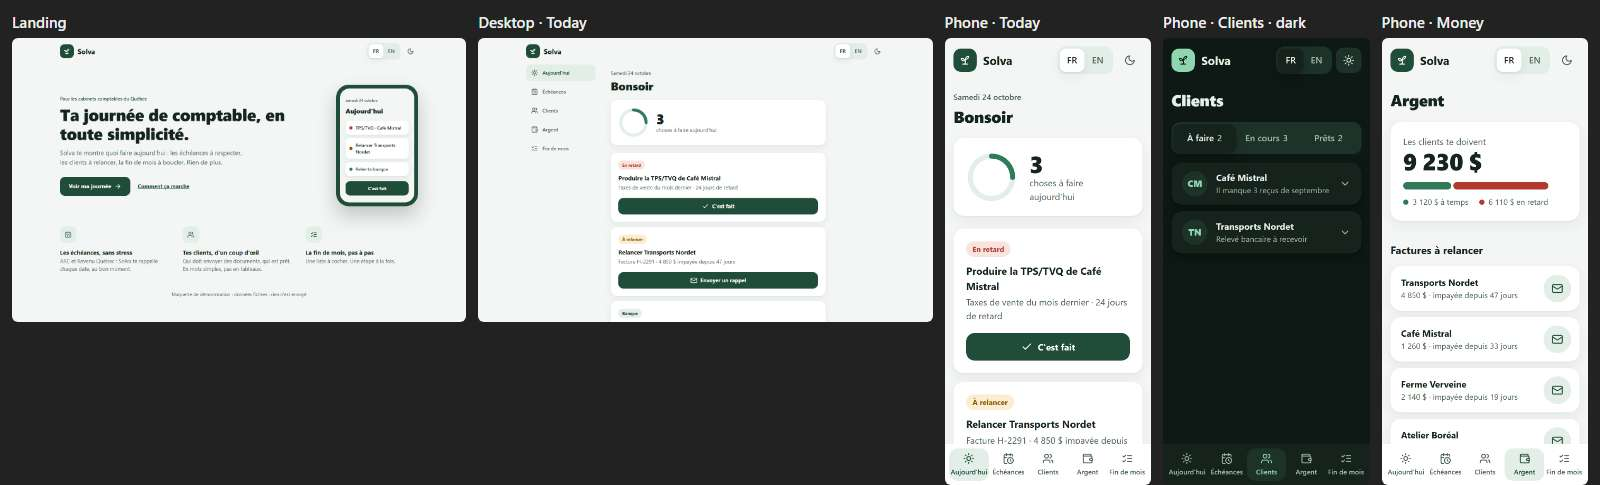
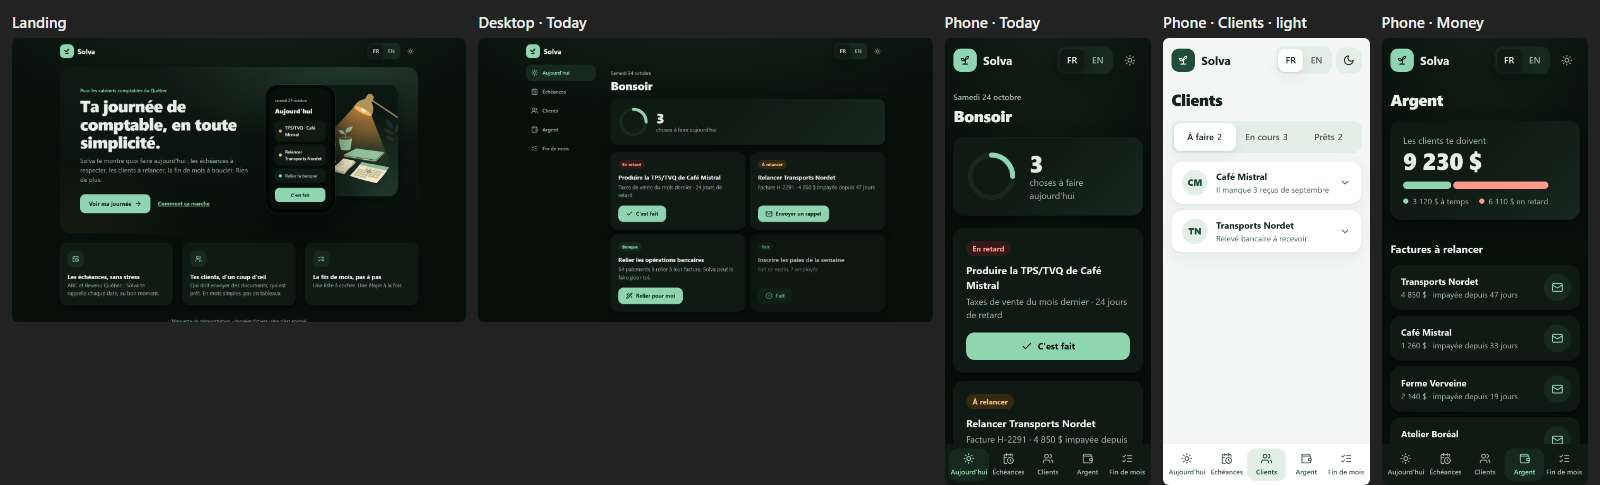
Darker look: dark by default, Gemini hero art, crew polish
- Deeper dark palette, top glow, glowing phone mock; dark is the default (storage key solva-v2)
- Landing hero panel with day/night desk illustrations (Gemini), benefit cards
- Desktop Today: wider column, two-column tasks, compact task buttons
- shots.py: dark default, light as the toggled view

diff --git a/style.css b/style.css
@@ -1,4 +1,4 @@
-/* Solva: phone-first, airy, one accent (dark green). Tokens follow webd. */
+/* Solva: phone-first, calm, one accent (green). Dark by default. Tokens follow webd. */
 :root {
   --bg: #f3f6f4;
   --surface: #ffffff;
@@ -14,26 +14,29 @@
   --red-tint: #f8e3df;
   --amber: #8a5800;
   --amber-tint: #fbedd2;
-  --shadow: 0 1px 2px rgba(21, 36, 29, .06), 0 8px 24px rgba(21, 36, 29, .06);
+  --shadow: 0 0 0 1px rgba(21, 36, 29, .05), 0 1px 2px rgba(21, 36, 29, .05), 0 10px 28px rgba(21, 36, 29, .06);
+  --hero: radial-gradient(120% 90% at 85% 10%, #d3e8dc 0%, rgba(211, 232, 220, 0) 60%), linear-gradient(180deg, #e9f2ed, #f3f6f4);
   --r: 20px;
   color-scheme: light;
 }
 [data-theme="dark"] {
-  --bg: #0e1814;
-  --surface: #15231c;
+  --bg: #08100c;
+  --surface: #101a15;
   --ink: #e5efe9;
-  --muted: #a3b8ad;
-  --line: #24382e;
+  --muted: #9bb1a5;
+  --line: #1c2b24;
   --accent: #8fd6b0;
   --accent-ink: #8fd6b0;
-  --on-accent: #0e1814;
-  --tint: #1d3329;
+  --on-accent: #08100c;
+  --tint: #172820;
   --ring: #8fd6b0;
   --red: #ff9a8a;
-  --red-tint: #3a1f1b;
+  --red-tint: #33191a;
   --amber: #f3c46e;
-  --amber-tint: #3a2e17;
-  --shadow: 0 1px 2px rgba(0, 0, 0, .3), 0 8px 24px rgba(0, 0, 0, .25);
+  --amber-tint: #332914;
+  --shadow: 0 0 0 1px rgba(143, 214, 176, .07), 0 1px 2px rgba(0, 0, 0, .4), 0 12px 32px rgba(0, 0, 0, .35);
+  --hero: radial-gradient(90% 80% at 80% 0%, rgba(143, 214, 176, .16) 0%, rgba(143, 214, 176, 0) 60%), radial-gradient(60% 60% at 0% 100%, rgba(243, 196, 110, .06), rgba(243, 196, 110, 0) 70%), linear-gradient(180deg, #0f1a15, #08100c);
+  --glow: radial-gradient(70% 40% at 50% -10%, rgba(143, 214, 176, .09), rgba(143, 214, 176, 0));
   color-scheme: dark;
 }
 
@@ -41,11 +44,11 @@
 .booting .app { visibility: hidden; }
 html { scroll-behavior: smooth; -webkit-text-size-adjust: 100%; }
 html, body { margin: 0; }
-body { background: var(--bg); color: var(--ink); font: 17px/1.5 Figtree, system-ui, sans-serif; transition: background .4s, color .4s; }
+body { background: var(--glow, none) no-repeat, var(--bg); color: var(--ink); font: 17px/1.5 Figtree, system-ui, sans-serif; transition: background .4s, color .4s; }
 button { font: inherit; color: inherit; border: 0; background: none; cursor: pointer; }
 a { color: inherit; }
 h1, h2, p { margin: 0; }
-h1 { font-size: 30px; line-height: 1.15; font-weight: 800; letter-spacing: -.01em; }
+h1 { font-size: 30px; line-height: 1.1; font-weight: 800; letter-spacing: -.02em; }
 h2 { font-size: 20px; font-weight: 700; margin: 40px 0 16px; }
 ul { list-style: none; margin: 0; padding: 0; }
 .num { font-variant-numeric: tabular-nums; }
@@ -110,7 +113,7 @@ svg.lucide { width: 22px; height: 22px; stroke-width: 2; flex: none; }
 .dot { display: inline-block; width: 10px; height: 10px; border-radius: 50%; background: var(--ring); flex: none; }
 .dot.red { background: var(--red); } .dot.amber { background: var(--amber); }
 
-.answer { display: flex; align-items: center; gap: 24px; margin-top: 24px; }
+.answer { display: flex; align-items: center; gap: 24px; margin-top: 24px; background: linear-gradient(135deg, var(--surface) 40%, var(--tint)); }
 .answer .grow { flex: 1; }
 .huge { display: block; font-size: 44px; line-height: 1.1; font-weight: 800; letter-spacing: -.02em; }
 .answer p { color: var(--muted); }
@@ -132,7 +135,9 @@ svg.lucide { width: 22px; height: 22px; stroke-width: 2; flex: none; }
 
 /* today */
 .tasks { display: grid; gap: 16px; margin-top: 24px; }
-.task p { color: var(--muted); margin: 4px 0 20px; }
+.task { display: flex; flex-direction: column; }
+.task .pill { align-self: flex-start; }
+.task p { flex: 1; color: var(--muted); margin: 4px 0 20px; }
 .task b { display: block; font-size: 19px; }
 .task .pill { margin-bottom: 12px; }
 .task.done { opacity: .65; }
@@ -180,25 +185,32 @@ svg.lucide { width: 22px; height: 22px; stroke-width: 2; flex: none; }
 .check[aria-checked="true"] > span:nth-child(2) { color: var(--muted); text-decoration: line-through; }
 
 /* ---------- landing ---------- */
-.landing { padding-top: 24px; }
+.landing { padding-top: 8px; }
+.land-hero { padding: 32px 24px; border-radius: 32px; background: var(--hero); }
 .landing .kicker { color: var(--accent-ink); }
 .land-hero h1 { font-size: 40px; }
 .land-hero .lead { font-size: 20px; margin-top: 16px; max-width: 30em; }
 .cta { display: flex; flex-wrap: wrap; align-items: center; gap: 16px 24px; margin-top: 32px; }
 .link { font-weight: 700; color: var(--accent-ink); min-height: 48px; display: inline-flex; align-items: center; }
-.phone { margin: 48px auto 0; width: 260px; max-width: 100%; padding: 12px; border-radius: 40px; background: #1f4d3a; box-shadow: 0 30px 60px rgba(21, 36, 29, .22); }
+.land-visual { display: grid; margin: 40px auto 0; max-width: 420px; padding-bottom: 8px; }
+.land-visual .phone { grid-area: 1 / 1; width: 220px; justify-self: start; align-self: end; margin: 0; }
+.land-art { grid-area: 1 / 1; justify-self: end; width: 84%; aspect-ratio: 1; height: auto; object-fit: cover; border-radius: 28px; box-shadow: var(--shadow); }
+.land-art.night, [data-theme="dark"] .land-art.day { display: none; }
+[data-theme="dark"] .land-art.night { display: block; }
+[data-theme="dark"] .phone { background: #030806; box-shadow: 0 0 0 1px rgba(143, 214, 176, .18), 0 30px 70px rgba(0, 0, 0, .6), 0 0 80px rgba(143, 214, 176, .08); }
+.phone { position: relative; margin: 0 auto; width: 260px; max-width: 100%; padding: 12px; border-radius: 40px; background: #1f4d3a; box-shadow: 0 30px 60px rgba(21, 36, 29, .22); }
 .phone-screen { border-radius: 30px; background: var(--bg); padding: 28px 18px 22px; display: grid; gap: 10px; font-size: 14px; }
 .ph-date { color: var(--muted); font-size: 12px; font-weight: 600; }
 .ph-title { font-size: 20px; font-weight: 800; margin-bottom: 6px; }
 .ph-row { display: flex; align-items: center; gap: 10px; padding: 12px; border-radius: 14px; background: var(--surface); box-shadow: var(--shadow); font-weight: 600; }
 .ph-row.done { color: var(--muted); text-decoration: line-through; }
 .ph-btn { margin-top: 6px; text-align: center; padding: 12px; border-radius: 14px; background: var(--accent); color: var(--on-accent); font-weight: 700; }
-.benefits { display: grid; gap: 24px; margin-top: 64px; scroll-margin-top: 24px; }
-.benefits li { display: flex; gap: 16px; align-items: flex-start; }
+.benefits { display: grid; gap: 16px; margin-top: 32px; scroll-margin-top: 24px; }
+.benefits li { display: flex; gap: 16px; align-items: flex-start; padding: 24px; border-radius: var(--r); background: var(--surface); box-shadow: var(--shadow); }
 .benefits .ic { display: grid; place-items: center; width: 52px; height: 52px; border-radius: 16px; background: var(--tint); color: var(--accent-ink); flex: none; }
 .benefits b { display: block; font-size: 19px; }
 .benefits p { color: var(--muted); }
-.foot { margin: 56px 0 8px; text-align: center; font-size: 15px; color: var(--muted); }
+.foot { margin: 40px 0 8px; text-align: center; font-size: 15px; color: var(--muted); }
 
 .toast { position: fixed; z-index: 20; left: 50%; bottom: calc(96px + env(safe-area-inset-bottom)); display: flex; align-items: center; gap: 12px; width: max-content; max-width: calc(100% - 32px);
   padding: 6px 6px 6px 20px; min-height: 56px; border-radius: 16px; background: var(--ink); color: var(--bg); font-weight: 600; box-shadow: 0 12px 30px rgba(0, 0, 0, .25);
@@ -213,6 +225,8 @@ svg.lucide { width: 22px; height: 22px; stroke-width: 2; flex: none; }
   h1 { font-size: 36px; }
   .app { padding: 0 32px 120px; }
   .bank .btn { width: auto; }
+  .task .btn.block { width: auto; align-self: flex-start; }
+  .land-hero { padding: 48px; }
   .benefits { grid-template-columns: repeat(3, 1fr); gap: 32px; }
   .benefits li { flex-direction: column; }
 }
@@ -221,11 +235,12 @@ svg.lucide { width: 22px; height: 22px; stroke-width: 2; flex: none; }
   .bar { grid-column: 1 / -1; width: 100%; max-width: none; }
   .nav { position: sticky; top: 24px; align-self: start; flex-direction: column; justify-content: flex-start; gap: 8px; padding: 0; background: none; border: 0; }
   .nav a { flex: none; max-width: none; flex-direction: row; gap: 14px; min-height: 52px; padding: 12px 16px; font-size: 16px; }
-  .main { margin: 0; max-width: 680px; }
+  .main { margin: 0; max-width: 900px; }
+  .tasks { grid-template-columns: repeat(2, minmax(0, 1fr)); }
   .is-home .app { grid-template-columns: minmax(0, 1fr); }
   .is-home .main { max-width: none; }
-  .land-hero { display: grid; grid-template-columns: 1fr auto; gap: 64px; align-items: center; padding-top: 40px; }
+  .land-hero { display: grid; grid-template-columns: 1fr 420px; gap: 48px; align-items: center; padding: 56px 64px; }
+  .land-visual { margin: 0; }
   .land-hero h1 { font-size: 52px; }
-  .phone { margin: 0; }
   .toast { bottom: 32px; }
 }

diff --git a/index.html b/index.html
@@ -3,7 +3,7 @@
 <head>
 <meta charset="utf-8">
 <meta name="viewport" content="width=device-width, initial-scale=1, viewport-fit=cover">
-<meta name="theme-color" content="#1f4d3a">
+<meta name="theme-color" content="#08100c">
 <title>Solva</title>
 <link rel="preconnect" href="https://fonts.googleapis.com">
 <link rel="preconnect" href="https://fonts.gstatic.com" crossorigin>
@@ -43,7 +43,10 @@
             <a class="link" href="#how" data-i18n="how"></a>
           </div>
         </div>
-        <div class="phone" aria-hidden="true">
+        <div class="land-visual" aria-hidden="true">
+        <img class="land-art night" src="assets/hero-dark.jpg" alt="" width="840" height="840">
+        <img class="land-art day" src="assets/hero.jpg" alt="" width="840" height="840" loading="lazy">
+        <div class="phone">
           <div class="phone-screen">
             <p class="ph-date" id="phDate"></p>
             <p class="ph-title" data-i18n="todayTitle"></p>
@@ -52,6 +55,7 @@
             <div class="ph-row done"><span class="dot"></span><span data-i18n="phRow3"></span></div>
             <span class="ph-btn" data-i18n="phBtn"></span>
           </div>
+        </div>
         </div>
       </div>
       <ul class="benefits" id="how"></ul>

diff --git a/app.js b/app.js
@@ -92,7 +92,7 @@ const CLIENTS = [
 
 const state = {
   lang: 'fr',
-  theme: 'light',
+  theme: 'dark',
   route: 'home',
   filter: 'action',
   open: null,
@@ -116,11 +116,11 @@ const state = {
   ],
 };
 try { // per-viewer conveniences only
-  const saved = JSON.parse(localStorage.getItem('solva') || '{}');
+  const saved = JSON.parse(localStorage.getItem('solva-v2') || '{}');
   if (saved.lang in T) state.lang = saved.lang;
   if (saved.theme === 'dark' || saved.theme === 'light') state.theme = saved.theme;
 } catch (e) { /* storage blocked: defaults are fine */ }
-function save() { try { localStorage.setItem('solva', JSON.stringify({ lang: state.lang, theme: state.theme })); } catch (e) { /* ignore */ } }
+function save() { try { localStorage.setItem('solva-v2', JSON.stringify({ lang: state.lang, theme: state.theme })); } catch (e) { /* ignore */ } }
 
 const $ = (s) => document.querySelector(s);
 const t = () => T[state.lang];

diff --git a/tools/shots.py b/tools/shots.py
@@ -32,13 +32,13 @@ def sheet(page, shots):
     page.screenshot(path=OUT / 'sheet.jpg', full_page=True, type='jpeg', quality=60)
 
 
-def shot(b, route, w, h, dark=False, full=False, mobile=False):
+def shot(b, route, w, h, light=False, full=False, mobile=False):
     pg = b.new_page(viewport={'width': w, 'height': h}, device_scale_factor=2 if mobile else 1, is_mobile=mobile, has_touch=mobile)
     pg.goto(URL + route, wait_until='networkidle')
-    if dark:
+    if light:  # dark is the default; the toggle switches to light
         pg.click('[data-theme-toggle]')
     pg.wait_for_timeout(600)
-    name = (route.strip('#/') or 'home') + ('-dark' if dark else '') + ('-phone' if mobile else '')
+    name = (route.strip('#/') or 'home') + ('-light' if light else '') + ('-phone' if mobile else '')
     return pg.screenshot(path=OUT / f'{name}.png', full_page=full)
 
 
@@ -47,7 +47,7 @@ with sync_playwright() as p:
     shots = [('Landing', shot(b, '', 1440, 900)),
              ('Desktop · Today', shot(b, '#/today', 1440, 900)),
              ('Phone · Today', shot(b, '#/today', 390, 844, mobile=True)),
-             ('Phone · Clients · dark', shot(b, '#/clients', 390, 844, dark=True, mobile=True)),
+             ('Phone · Clients · light', shot(b, '#/clients', 390, 844, light=True, mobile=True)),
              ('Phone · Money', shot(b, '#/money', 390, 844, mobile=True))]
     sheet(b.new_page(), shots)
     b.close()
